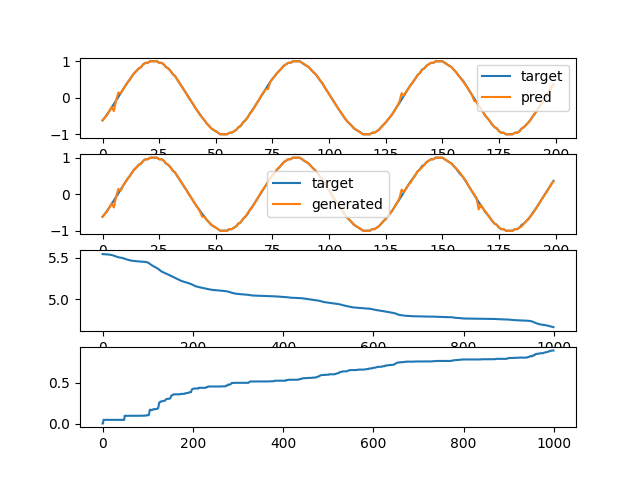
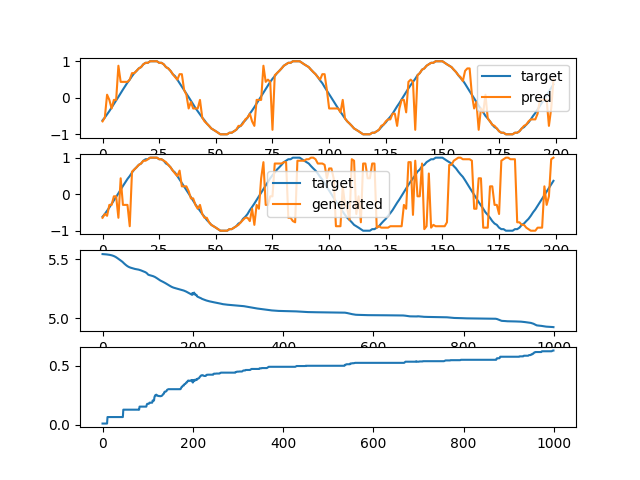
log experiments, update input dtype

diff --git a/movenet/pytorch_lightning_trainer.py b/movenet/pytorch_lightning_trainer.py
@@ -35,9 +35,14 @@ class Dance2Music(LightningModule):
 
     def training_step(self, batch, batch_idx):
         audio, video, contexts, fps, info = batch
+
         # need to do this manually since batch contains non-tensors
-        audio = audio.to(self.device)
-        video = video.to(self.device) if self.config.use_video else video
+        dtype = getattr(torch, f"float{self.precision}")
+        audio = audio.type(dtype).to(self.device)
+
+        if self.config.use_video:
+            video = video.type(dtype).to(self.device)
+
         output = self(audio, video)
 
         target = audio[:, :, self.model.receptive_fields:].argmax(1)
@@ -169,6 +174,7 @@ def train_model(
             project=wandb_project,
             log_model="all",
         )
+        logger.experiment.config.update(asdict(config))
         callbacks.append(LearningRateMonitor(logging_interval="step"))
         if log_samples_every:
             callbacks.append(
@@ -188,6 +194,7 @@ def train_model(
         log_every_n_steps=1,
         num_sanity_val_steps=0,
         callbacks=callbacks,
+        track_grad_norm=2,
     )
     if logger:
         logger.watch(model, log="all", log_freq=1)

diff --git a/movenet/callbacks.py b/movenet/callbacks.py
@@ -54,9 +54,14 @@ class LogSamplesCallback(Callback):
             return
 
         audio, video, *_ = batch
+
         # need to do this manually since batch contains non-tensors
-        audio = audio.to(pl_module.device)
-        video = video if video is None else video.to(pl_module.device)
+        dtype = getattr(torch, f"float{pl_module.precision}")
+        audio = audio.type(dtype).to(pl_module.device)
+
+        if pl_module.config.use_video:
+            video = video.type(dtype).to(pl_module.device)
+
         outputs["generated_output"] = pl_module.model.generate(
             audio,
             video,

diff --git a/movenet/dataset.py b/movenet/dataset.py
@@ -139,6 +139,7 @@ def get_dataloader(
     rank: int = 0,
     world_size: int = 0,
     use_video: bool = True,
+    normalize_audio: bool = True,
     **kwargs,
 ):
     dataset = KineticsDataset(
@@ -146,6 +147,7 @@ def get_dataloader(
         input_channels,
         train=train,
         use_video=use_video,
+        normalize_audio=normalize_audio,
     )
     sampler = None
     if world_size > 1:
